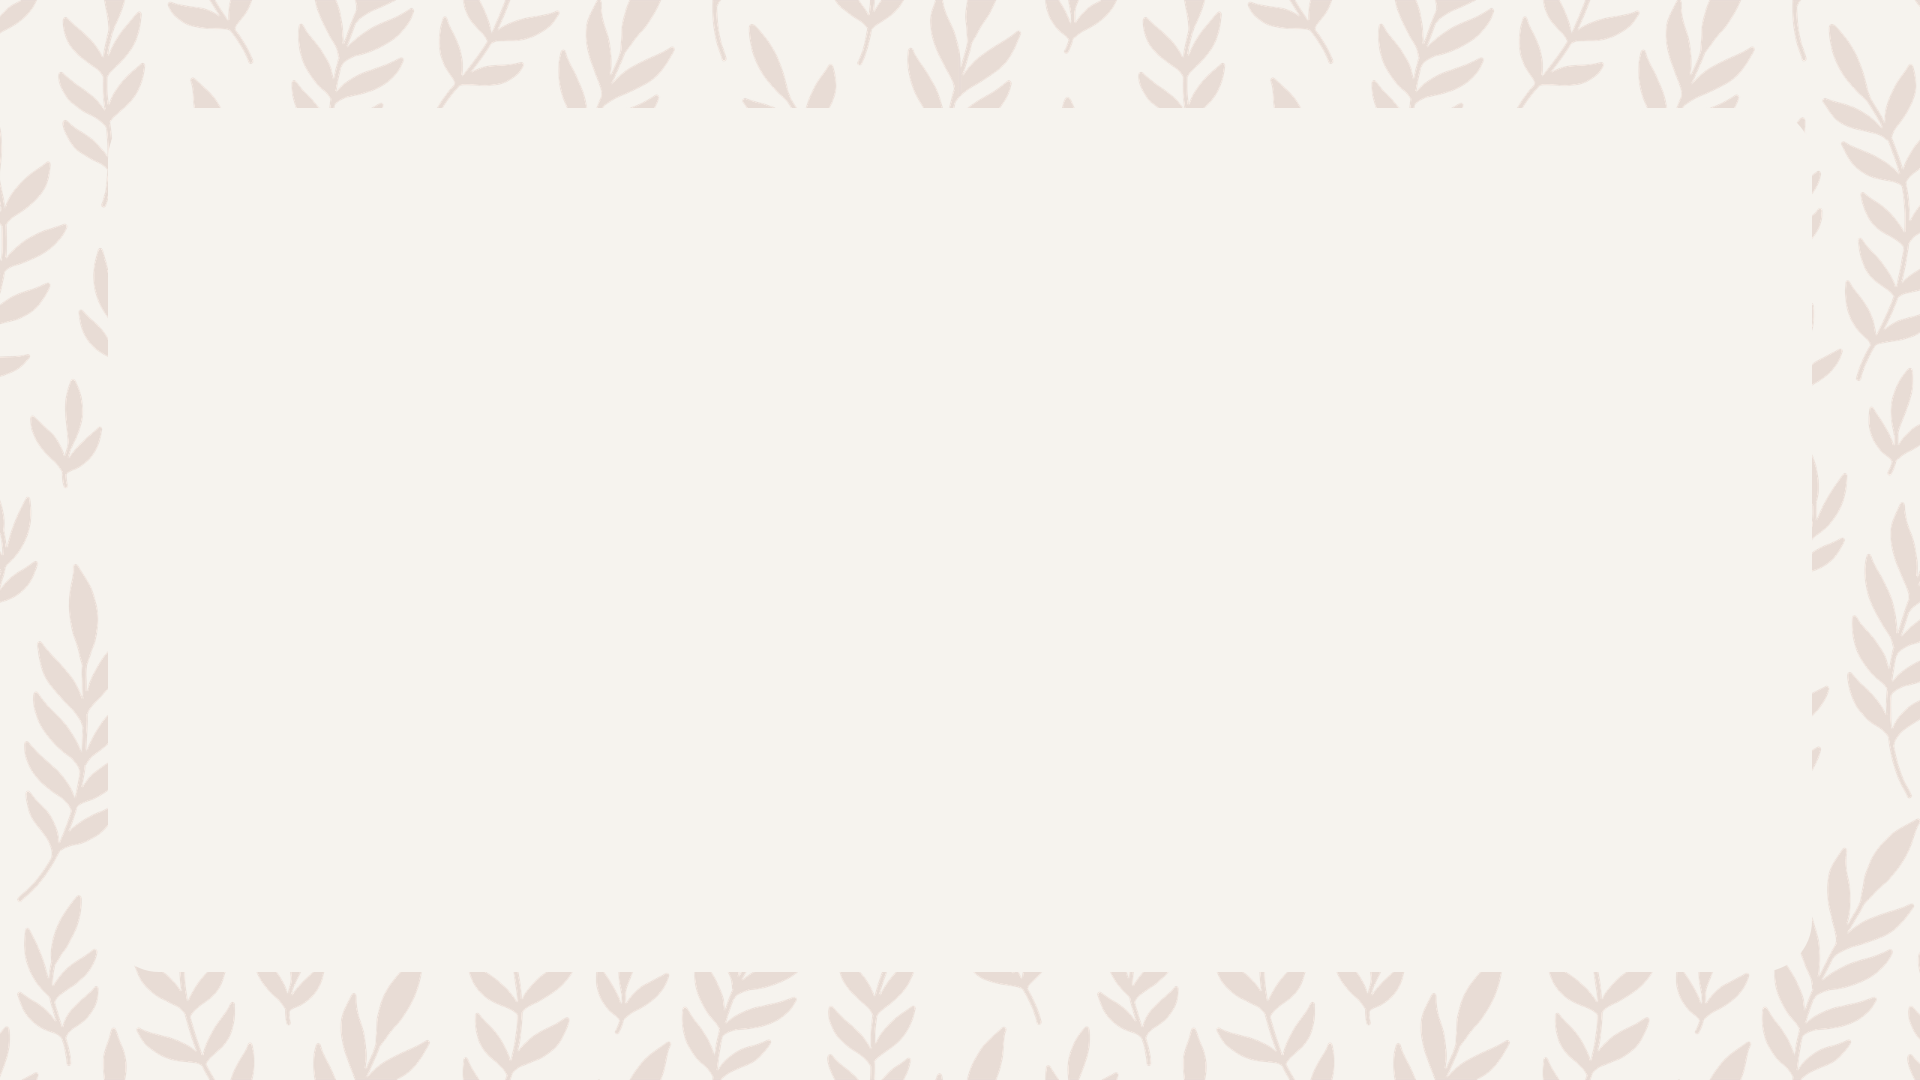
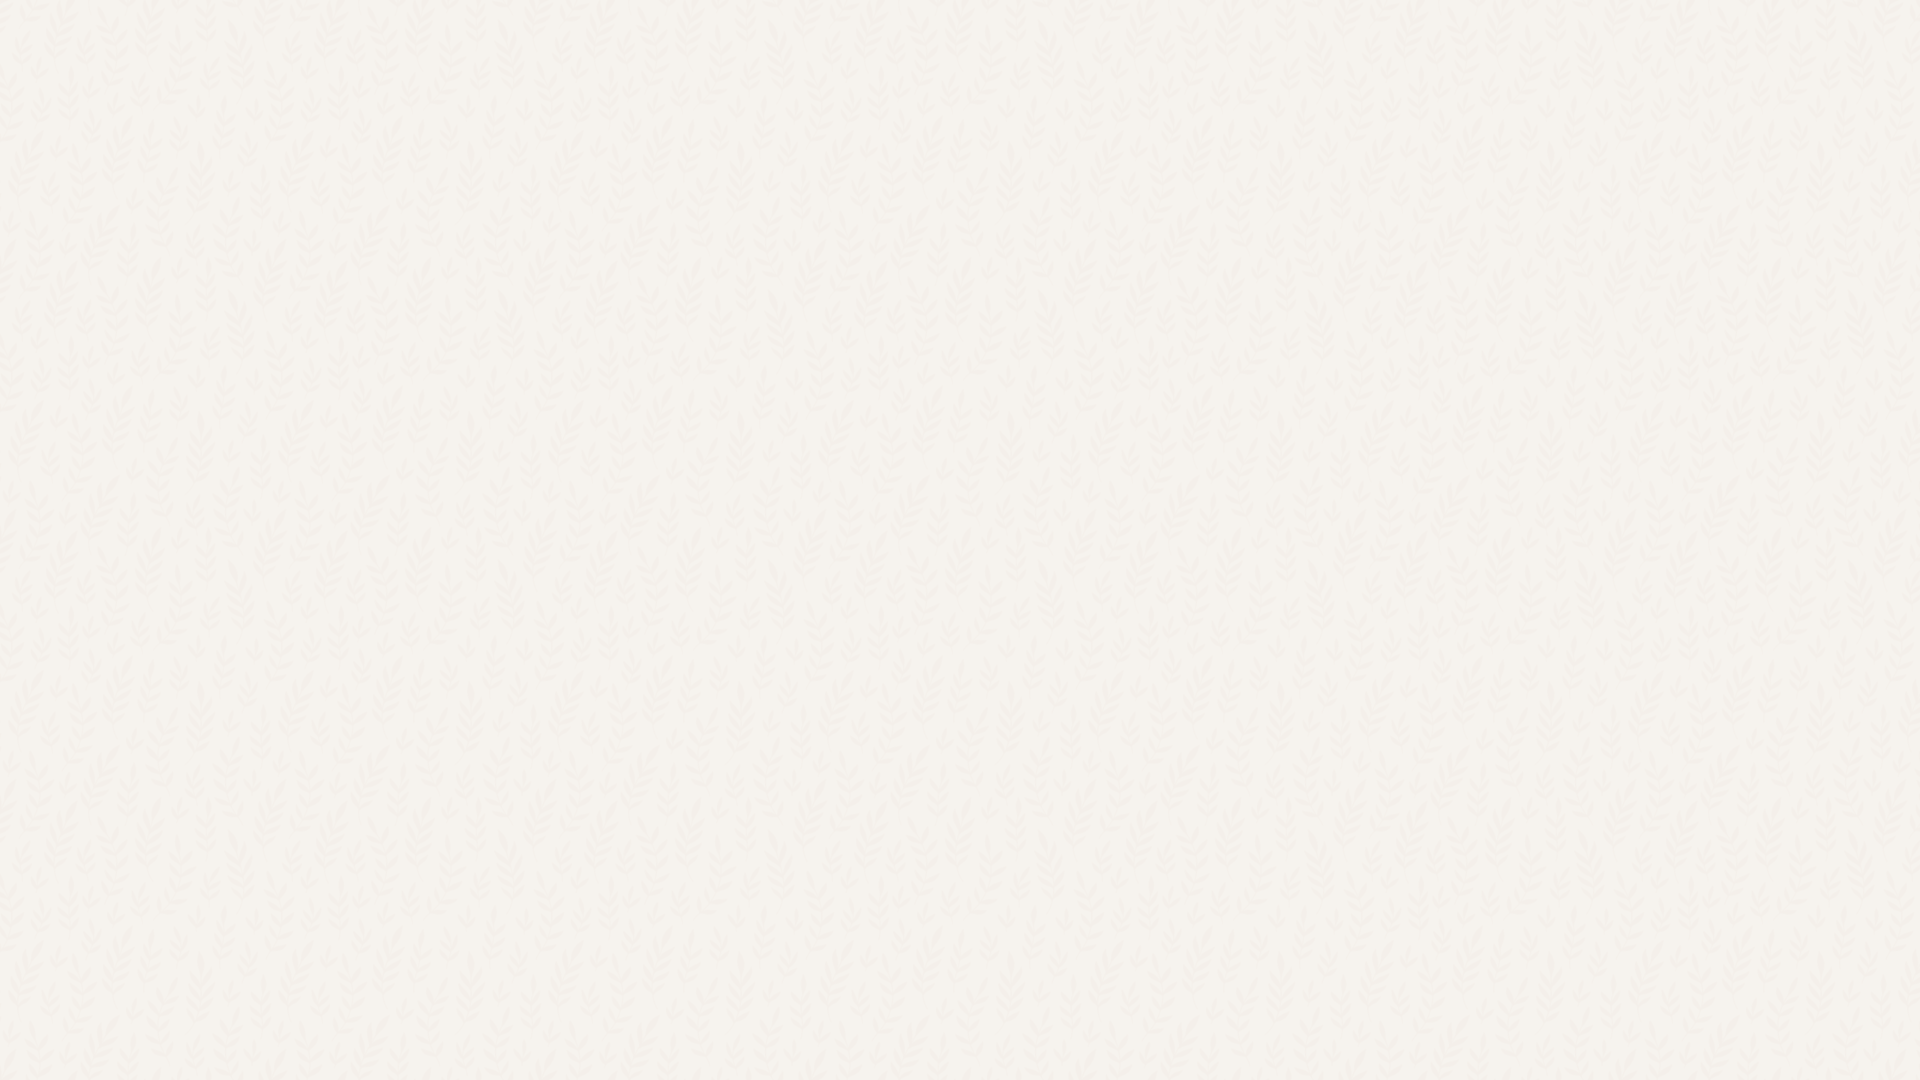
Valuate products arreglado y terminado

diff --git a/src/view/employeePanels/MaxiValuateSecondHandP.java b/src/view/employeePanels/MaxiValuateSecondHandP.java
@@ -1,11 +1,13 @@
 package view.employeePanels;
 
+import model.product.ConservationStatus;
 import model.product.SecondHandProduct;
 import view.App;
 
 import javax.swing.*;
 import javax.swing.text.*;
 import java.awt.*;
+import java.util.HashMap;
 
 import static view.ImageAdder.getImageLabel;
 
@@ -17,6 +19,7 @@ public class MaxiValuateSecondHandP extends JPanel {
     private final JComboBox<String> conservationStatus;
     private final JTextField valuation = new JTextField();
     private final JPanel valuationStuff;
+    private final HashMap<String, ConservationStatus> conservationStatutes = new HashMap<>();
 
     /*------------------------------------------------- CONSTRUCTOR --------------------------------------------------*/
     public MaxiValuateSecondHandP(App app, SecondHandProduct product) throws BadLocationException {
@@ -29,14 +32,24 @@ public class MaxiValuateSecondHandP extends JPanel {
         productInfo.setFocusable(false);
 
         valuate.setPreferredSize(new Dimension(100, 50));
-        String[] conservationStatutes =
-                {"Perfect", "Very good", "Slightly used", "Evidently used", "Very used", "Damaged"};
-        conservationStatus = new JComboBox<>(conservationStatutes);
+        conservationStatutes.put("Perfect", ConservationStatus.PERFECT);
+        conservationStatutes.put("Very good", ConservationStatus.VERY_GOOD);
+        conservationStatutes.put("Slightly used", ConservationStatus.SLIGHTLY_USED);
+        conservationStatutes.put("Evidently used", ConservationStatus.EVIDENTLY_USED);
+        conservationStatutes.put("Very used", ConservationStatus.VERY_USED);
+        conservationStatutes.put("Damaged", ConservationStatus.DAMAGED);
+
+        conservationStatus = new JComboBox<>(conservationStatutes.keySet().toArray(new String[0]));
         valuation.setColumns(20);
 
         valuationStuff = new JPanel(new FlowLayout());
         valuationStuff.add(conservationStatus);
-        valuationStuff.add(valuation);
+
+        JPanel valuateButtonStuff = new JPanel(new GridLayout(2, 0));
+        valuateButtonStuff.add(new JLabel("Valuation (XX.XX)€:"));
+        valuateButtonStuff.add(valuation);
+
+        valuationStuff.add(valuateButtonStuff);
         valuationStuff.add(valuate);
 
         paintEverything();
@@ -82,5 +95,37 @@ public class MaxiValuateSecondHandP extends JPanel {
 
         this.revalidate();
         this.repaint();
+    }
+
+    public App getApp() {
+        return app;
+    }
+
+    public JComboBox<String> getConservationStatus() {
+        return conservationStatus;
+    }
+
+    public ConservationStatus getConservationStatusFromName(String conservationStatusName) {
+        return conservationStatutes.get(conservationStatusName);
+    }
+
+    public SecondHandProduct getProduct() {
+        return product;
+    }
+
+    public JTextPane getProductInfo() {
+        return productInfo;
+    }
+
+    public JButton getValuate() {
+        return valuate;
+    }
+
+    public JTextField getValuation() {
+        return valuation;
+    }
+
+    public JPanel getValuationStuff() {
+        return valuationStuff;
     }
 }

diff --git a/src/controller/MaxiValuateSecondHandC.java b/src/controller/MaxiValuateSecondHandC.java
@@ -1,8 +1,15 @@
 package controller;
 
+import controller.browserControllers.BrowseValuationProductsC;
+import model.product.ConservationStatus;
 import model.store.Store;
 import view.App;
+import view.browserPanels.BrowseSecondHandProductsP;
 import view.employeePanels.MaxiValuateSecondHandP;
+
+import javax.swing.*;
+import javax.swing.text.BadLocationException;
+import java.util.Objects;
 
 public class MaxiValuateSecondHandC implements Controller {
     private final MaxiValuateSecondHandP view; /* view -> panel */
@@ -20,6 +27,22 @@ public class MaxiValuateSecondHandC implements Controller {
 
     @Override
     public void initializeActions() {
-
+        view.getValuate().addActionListener(e -> {
+            double valuation = Double.parseDouble(view.getValuation().getText());
+            ConservationStatus status = view.getConservationStatusFromName(
+                    Objects.requireNonNull(view.getConservationStatus().getSelectedItem()).toString());
+            view.getProduct().valuate(valuation, status);
+            JOptionPane.showMessageDialog(frame, "Product was valuated", "Product was valuated",
+                    JOptionPane.INFORMATION_MESSAGE);
+            try {
+                BrowseSecondHandProductsP browseSecondHandProductsP = new BrowseSecondHandProductsP("Valuate", null);
+                frame.addCard(browseSecondHandProductsP, "BROWSE_VALUATION_PRODUCTS");
+                frame.changeVisibleCard("BROWSE_VALUATION_PRODUCTS");
+                new BrowseValuationProductsC(frame, browseSecondHandProductsP, model);
+                frame.getLastShownPanels().remove(frame.getLastShownPanels().getLast());
+            } catch (BadLocationException ex) {
+                throw new RuntimeException(ex);
+            }
+        });
     }
 }

diff --git a/src/controller/employeeControllers/EmployeeMainC.java b/src/controller/employeeControllers/EmployeeMainC.java
@@ -55,9 +55,9 @@ public class EmployeeMainC implements Controller {
         view.getValuateProducts().addActionListener(e -> {
             try {
                 BrowseSecondHandProductsP browseSecondHandProductsP = new BrowseSecondHandProductsP("Valuate", null);
+                frame.addCard(browseSecondHandProductsP, "BROWSE_VALUATION_PRODUCTS");
+                frame.changeVisibleCard("BROWSE_VALUATION_PRODUCTS");
                 new BrowseValuationProductsC(frame, browseSecondHandProductsP, model);
-                frame.addCard(browseSecondHandProductsP, "BROWSE_SECOND_HAND_VALUATION_PRODUCTS");
-                frame.changeVisibleCard("BROWSE_SECOND_HAND_VALUATION_PRODUCTS");
             } catch (BadLocationException ex) {
                 throw new RuntimeException(ex);
             }

diff --git a/src/model/store/BetterPager.java b/src/model/store/BetterPager.java
@@ -82,6 +82,9 @@ public class BetterPager<G> {
     public int getMaxPageNum(List<G> itemList) {
         int itemsPerPage = Parameter.getParam().getItemsPerPage();
         int size = itemList.size();
+        if (size == 0) {
+            return 1;
+        }
         if (size % itemsPerPage == 0) {
             return size / itemsPerPage;
         }
@@ -91,6 +94,9 @@ public class BetterPager<G> {
     public int getMaxPageNum(List<G> itemList, int offset) {
         int itemsPerPage = Parameter.getParam().getItemsPerPage();
         int size = itemList.size() + offset;
+        if (size == 0) {
+            return 1;
+        }
         if (size % itemsPerPage == 0) {
             return size / itemsPerPage;
         }

diff --git a/src/view/App.java b/src/view/App.java
@@ -155,6 +155,7 @@ public class App extends JFrame {
     }
 
     public void changeVisibleCard(String cardName) {
+        System.out.println("Changing visible card: " + cardName);
         CardLayout cl = (CardLayout) (cards.getLayout());
         cl.show(cards, cardName);
         getViewFromName(cardName).requestFocusInWindow();
@@ -177,6 +178,7 @@ public class App extends JFrame {
     public void goBack() {
         if (!lastShownPanels.isEmpty()) {
             String previousPanel = lastShownPanels.removeLast();
+            System.out.println("Going back to card: " + previousPanel);
 
             CardLayout cl = (CardLayout) (cards.getLayout());
             cl.show(cards, previousPanel);

diff --git a/src/controller/miniControllers/SecondHandValuateMiniC.java b/src/controller/miniControllers/SecondHandValuateMiniC.java
@@ -87,7 +87,6 @@ public class SecondHandValuateMiniC implements Controller {
         });
 
         view.getButton().addActionListener(e -> {
-            System.out.println("BUTTON CLICKED");
             seeProduct();
         });
     }
